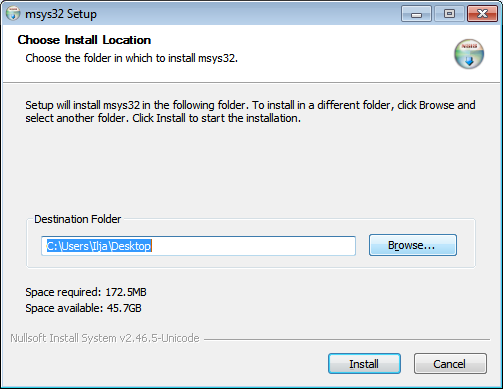
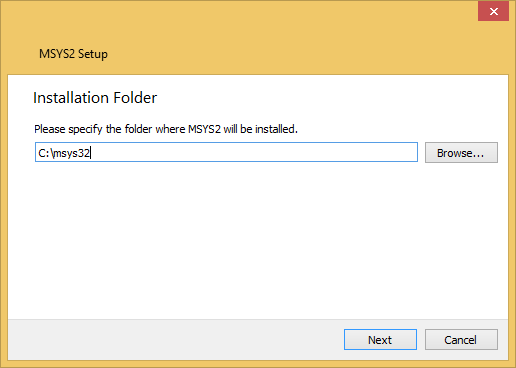
Updated to use official installer. Thanks iljau for giving us github.com/msys2 :)

diff --git a/index.html b/index.html
@@ -23,12 +23,12 @@
         </header>
 
         <section id="downloads" class="clearfix">
-          <a href="https://github.com/msys2/installer/releases/download/v0.11/msys32-base-setup.exe" class="button">&nbsp;&nbsp;msys32-base-setup.exe</a>
-          <a href="https://github.com/msys2/installer/releases/download/v0.11/msys64-base-setup.exe" class="button">&nbsp;&nbsp;msys64-base-setup.exe</a>
+          <a href="http://sourceforge.net/projects/msys2/files/Base/i686/msys2-i686-20140624.exe/download" class="button">&nbsp;&nbsp;msys2-i686-setup.exe</a>
+          <a href="http://sourceforge.net/projects/msys2/files/Base/x86_64/msys2-x86_64-20140624.exe/download" class="button">&nbsp;&nbsp;msys2-x86_64-setup.exe</a>
           <!--
           <a href="http://kent.dl.sourceforge.net/project/msys2/Base/i686/msys2-base-i686-20140216.tar.xz" class="button"><span>Download .tar.xz</span></a>
           -->
-          <a href="https://github.com/msys2/msys2.github.io" id="view-on-github" class="button"><span>View on GitHub</span></a>
+          <a href="https://github.com/msys2" id="view-on-github" class="button"><span>View on GitHub</span></a>
         </section>
 
         <hr>
@@ -38,11 +38,11 @@
             <p>
             <ol>
                 <li>
-                    <p>Download <a href="https://github.com/iljau/msys2-installer/releases/download/v0.8/msys32-base-setup.exe">msys32-base-setup.exe</a></p>
+                    <p>Download <a href="http://sourceforge.net/projects/msys2/files/Base/i686/msys2-i686-20140624.exe/download">msys2-i686-setup.exe</a></p>
                 </li>
-                <li><p>Clicking on <strong>"Run"</strong> is mildly suggested:
+                <li><p>Clicking on <strong>"Next"</strong> is mildly suggested:
                     <br />
-                        <img src="./1_msys32-warning.png"/>
+                        <img src="./1_msys32-start.png"/>
                     </p>
                 </li>
                 <li>
@@ -51,10 +51,10 @@
                         <img src="./2_msys32-install_path.png"/>
                     </p>
                 </li>
-                <li><p>
+                <!--li><p>
                     You'll see new folder on the desktop..:
                     <br />
-                    <img src="./3_msys32-desktop.png"/>
+                    <img src="./3_msys32-shortcut.png"/>
 
                 </p>
                 </li>
@@ -65,12 +65,36 @@
                         <br />
                         <img src="./4_msys32-folder.png">
                     </p>
+                </li-->
+
+                <li>
+                    <p>
+                        Run MSYS2 Shell when Finished:
+                        <br />
+                        <img src="./5_msys2-finish_install.png">
+                    </p>
                 </li>
                 
                 <li>
-                  Take look at <a href="https://github.com/JuliaLang/julia/issues/3640#issuecomment-35830176">github.com/JuliaLang/julia/issues/3640#issuecomment-35830176</a>
-                
-                  for additional details.
+                    <p>
+                        Update the system packages with <strong>Pacman -Syu</strong>:<br />
+                        Then close MSYS2 and restart the shell
+                        <br />
+                        <img src="./6_msys2-update-system.png">
+                    </p>
+                </li>
+
+                <li>
+                    <p>
+                        Now <strong>Pacman</strong> is fully committed to the windows cause :)<br />
+                        <br />
+                        <img src="./7_msys2-install-freely.png">
+                    </p>
+                </li>
+
+                <li>
+                  Take look at <a href="http://sourceforge.net/p/msys2/wiki/MSYS2%20installation/">Detailed MSYS2 install guide</a>
+                  for additional details and troubleshooting.
                 </li>
       
 
@@ -158,6 +182,7 @@
             <p>
                 <ul>
                     <li><a class="user-mention" href="https://github.com/Alexpux">Alexpux (Алексей)</a></li>
+                    <li><a class="user-mention" href="https://github.com/mingwandroid">martell (Martell Malone)</a></li>
                     <li><a class="user-mention" href="https://github.com/mingwandroid">mingwandroid (Ray Donnelly)</a></li>
                     <li><a class="user-mention" href="https://github.com/niXman">niXman</a></li>
                 </ul>
@@ -175,12 +200,13 @@
                     <li><a href="https://sourceforge.net/p/msys2/wiki/MSYS2%20installation/">sourceforge.net/p/msys2/wiki/MSYS2 installation</a></li>
                     <li><a href="https://sourceforge.net/p/msys2/tickets/">sourceforge.net/p/msys2/tickets</a></li>
                     <li><a href="https://sourceforge.net/p/msys2/discussion/general/">sourceforge.net/p/msys2/discussion/general</a></li>
+                    <li><a href="irc://irc.oftc.net:6667/msys2">IRC Channel</a></li>
                 </ul>
             </p>
         </section>
 
         <footer>
-          msys2-installer is maintained by <a href="https://github.com/iljau">iljau</a><br>
+          msys2.github.io is maintained by <a href="https://github.com/martell">Martell</a><br>
           This page was generated by <a href="http://pages.github.com">GitHub Pages</a>. Tactile theme by <a href="https://twitter.com/jasonlong">Jason Long</a>.
         </footer>
 
